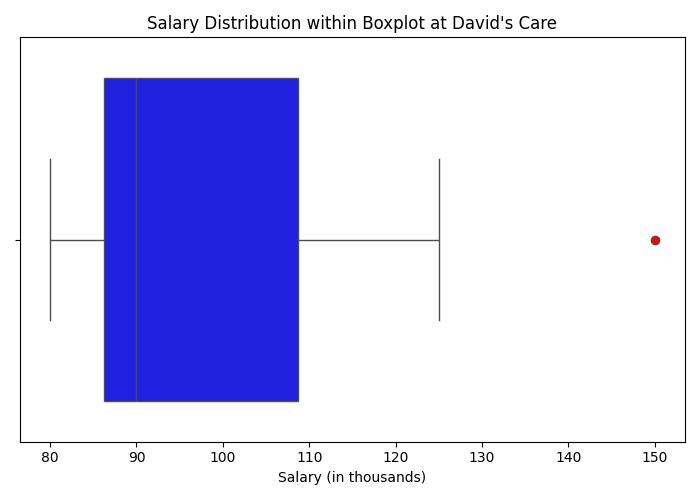
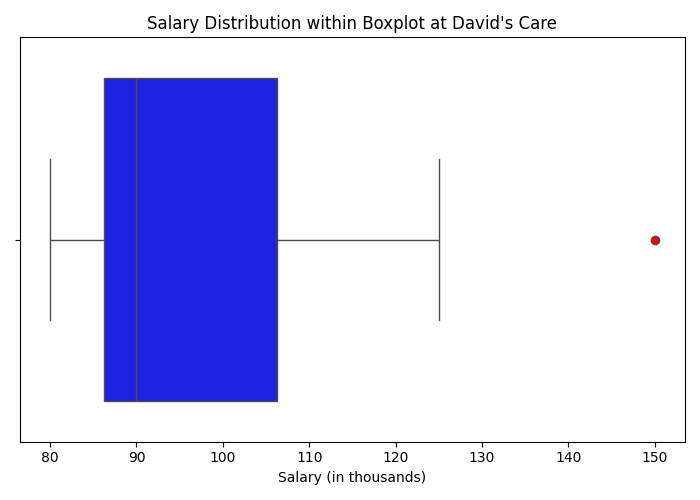
constant variables to calculate iqr/fences

Changed region(s): [[0.39, 0.15, 0.45, 0.81]]

diff --git a/ceo.py b/ceo.py
@@ -21,7 +21,13 @@ title_colors = {
     "Assistant": "yellow",
     "Intern": "gray",
 }
-salaries = np.array([150,125,115,90,90,90,90,85,85,80])
+salaries = np.array([150,125,110,95,90,90,90,85,85,80])
+
+Q1 = 85
+Q3 = 110 # i had to manually find the quartiles because numpys percentile func sucks
+IQR = Q3 - Q1
+lower_bound = Q1 - 1.5 * IQR
+upper_bound = Q3 + 1.5 * IQR
 
 
 MeanSalary = np.mean(salaries).round()
@@ -91,3 +97,5 @@ plt.close()
 # plt.savefig is to save plot as img
 print('Plots saved as images')
 print(f"Mean Salary: ${MeanSalary * 1000}, Mode Salary: ${ModeSalary * 1000}, Median Salary: ${MedianSalary * 1000}")
+print(f"Q1: ${Q1}, Q3: ${Q3}, IQR: ${IQR}")
+print(f"Lower Bound for Outliers: ${lower_bound}, Upper Bound for Outliers: ${upper_bound}")
